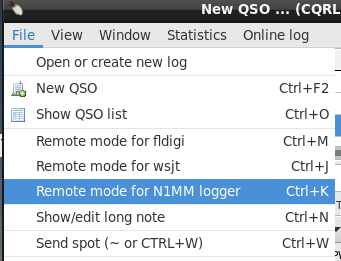
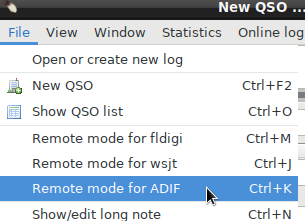
Settings to separate adif datagram and json datagram including adif. Help fixes

diff --git a/help/adif.html b/help/adif.html
@@ -41,8 +41,14 @@ function goBack() {
 
 <a name=fl1><h2><strong>ADIF logger remote</strong></h2></a>
 <img src="img/adif1.png" name="1"  border="0"/>
-<p>ADIF logger remote connection is just for copying logged qso infromation from other program like wsjt-x or js8call (or similars that support this kind of logging) to cqrlog.
+<p>ADIF remote connection (former "N1MM+ remote logger") is just for copying logged qso infromation from other program like wsjt-x or js8call (or similars that support this kind of logging) to cqrlog.
 There is no other finctionality than just transfer the logged data.
+<br><br> ADIF remote can read adif tags from UDP datagram as follows:
+<ul>
+    <li> Datagram has full adif export including proper header and one or more qso records.(used by wsjt-x primary UDP datagram)</li>
+    <li> Datagram has qso record without header starting with tag "&lt;CALL" and ending to &lt;EOR&gt; (used by wsjt-x secondary UDP datagram)</li>
+    <li> Datagram has JSON record including 'LOG.QSO","value":' followed by adif tags starting with tag "&lt;CALL" and ending to '"}'</li>
+</ul>     
 </br>Remote mode is activated from NewQSO/File selection list, or pressing Ctrl-K when NewQSO window is focused.
 </p><p>
 <img src="img/adif3.png" name="3"  border="0"/>

diff --git a/help/index_left.html b/help/index_left.html
@@ -36,7 +36,7 @@
         <li><a target="right" href="h28.html">Voice messages</a></li>
         <li><a target="right" href="h1.html#ch2">fldigi interface</a></li>
         <li><a target="right" href="h1.html#ch2b">wsjt-x interface</a></li>
-        <li><a target="right" href="h1.html#ch2c">ADIF interface</a></li>
+        <li><a target="right" href="h1.html#ch2c">ADIF remote interface</a></li>
         <li><a target="right" href="h1.html#ch3">Auto backup</a></li>
         <li><a target="right" href="h1.html#ch4">External viewers</a></li>
         <li><a target="right" href="h1.html#ch5">Callbook support</a></li>
@@ -57,7 +57,7 @@
     <li><a target="right" href="h26.html#mk2">CW Type</a></li>
     <li><a target="right" href="h20.html#ah33">Digital modes:</a> <em>fldigi</em></li>
     <li><a target="right" href="fldxml.html">Digital modes:</a> <em>fldigi XmlRpc</em></li>
-    <li><a target="right" href="adif.html">Digital modes:</a> <em>ADIF</em></li>
+    <li><a target="right" href="adif.html">Digital modes:</a> <em>ADIF remote</em></li>
     <li><a target="right" href="wsjt.html">Digital modes:</a> <em>wsjt-x</em></li>
     <li><a target="right" href="h21.html#ah19">DX Cluster Operation</a></li>
     <li><a target="right" href="h23.html#ah22">Filtering</a></li>
